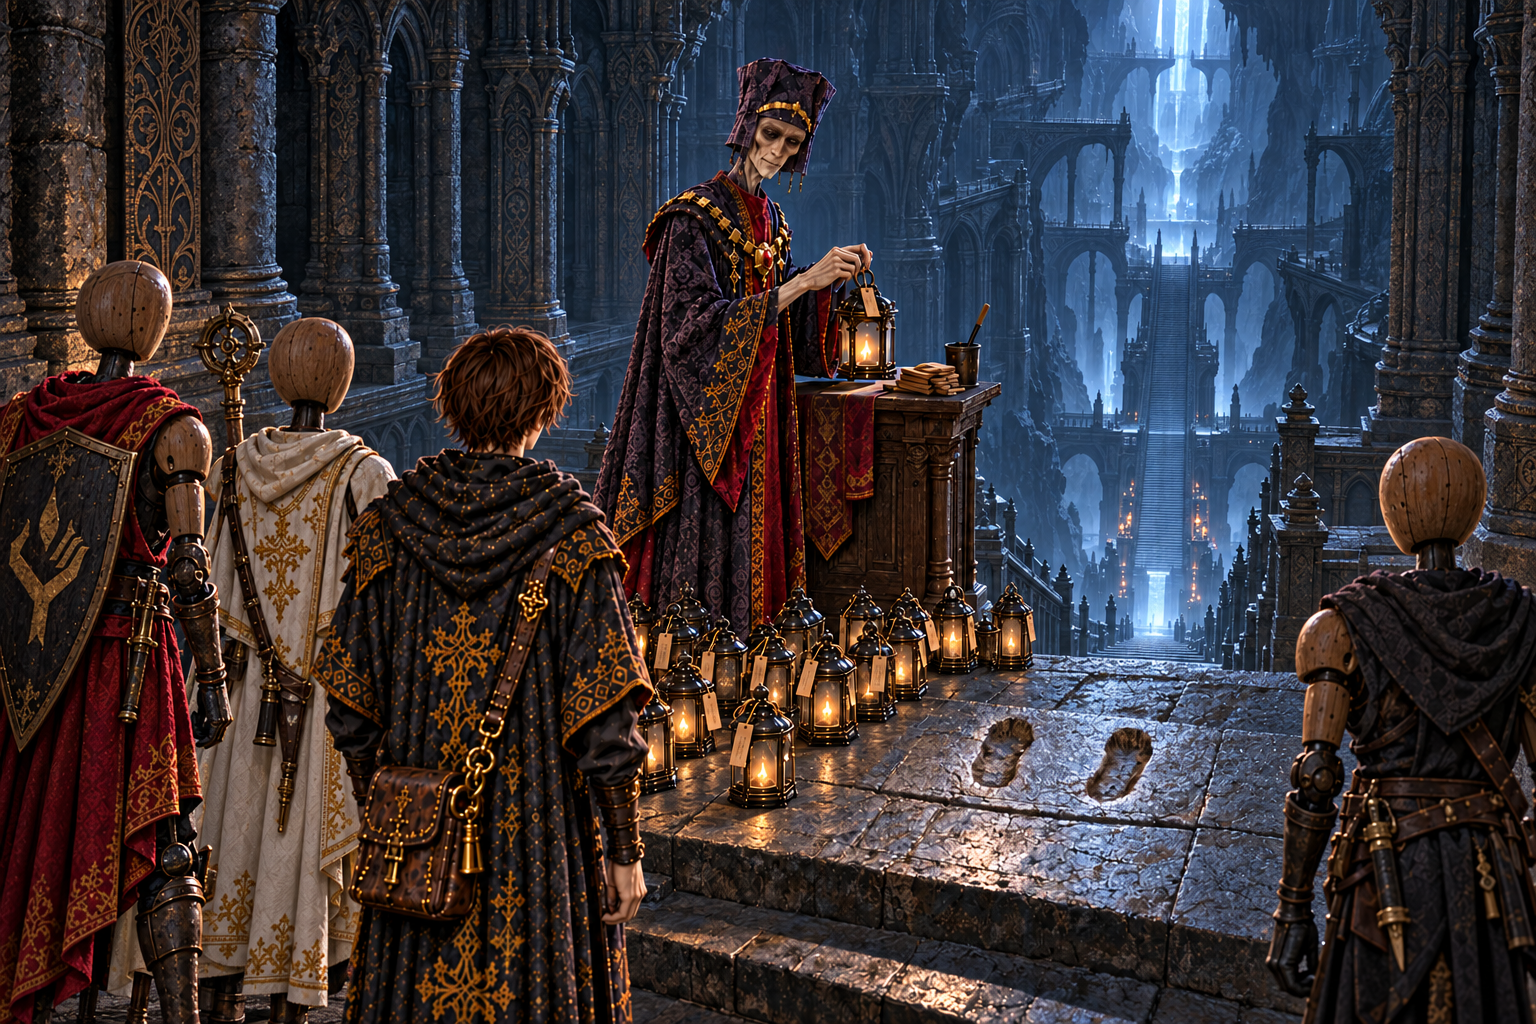
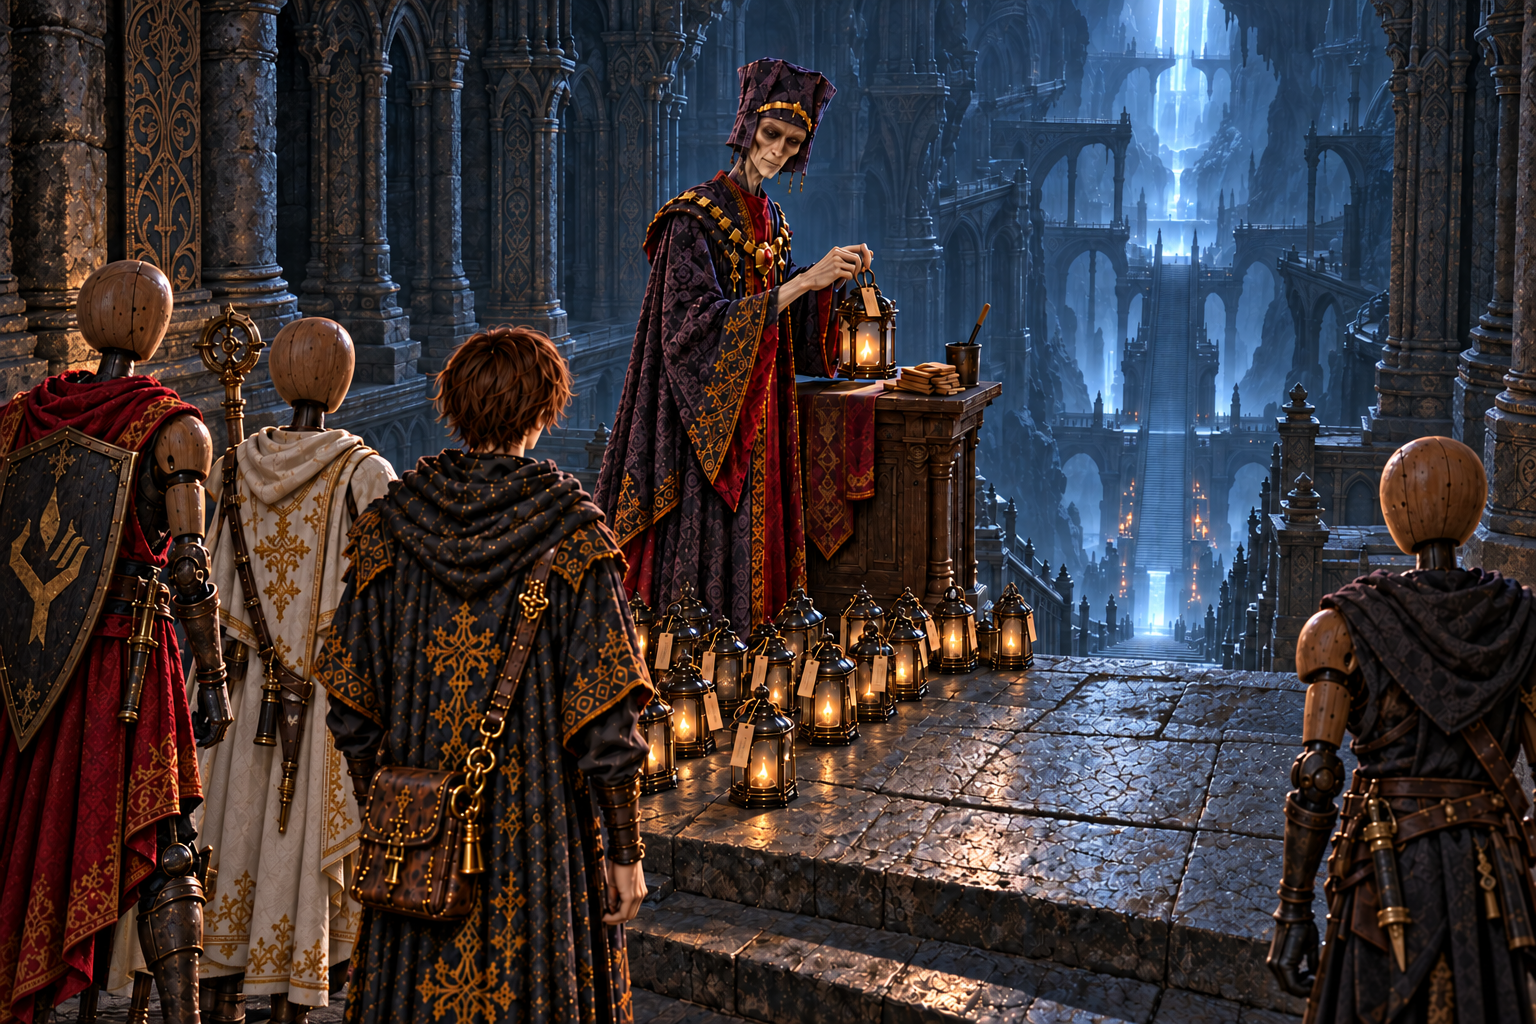
階段の前の宰相の石床から足跡を除去

diff --git a/docs/art/codex-story-art-brief.md b/docs/art/codex-story-art-brief.md
@@ -219,6 +219,13 @@ Character reference sheet on a plain dark slate-blue background with soft even l
 ### A. 必須 (物語の筋や正典と食い違う)
 
 
+**A-39. 第十章 pre_w41「階段の前の宰相」地面の足跡を除去** `art/story-review/chapter10/pre_w41.png` (済)
+- ユーザー指定 (2026-10-16): 画面下部中央やや右の石床にある、足裏の形をした二つの深い跡を消し、周囲と同じ石畳に戻す。本文は変えない。
+- 保つもの: 人物・手指・衣装・灯籠・札・書見台・石段・伽藍・構図・画風・光。床の修正範囲外は保つ。
+```text
+...remove ONLY the TWO conspicuous foot-shaped depressions in the stone floor in the lower center-right of the attached illustration (roughly x=950-1180, y=705-830 on the 1536x1024 image). Completely erase both dark sole silhouettes, their heel/toe indentations, rims and internal shadows. Reconstruct continuous ordinary worn gothic stone paving in those two small regions, matching the surrounding irregular slab texture, joints, cracks, perspective and warm amber/cool cyan lighting. Keep the horizontal step edge in front intact. The finished floor must have no recognizable footprints, shoe prints, sole shapes or paired foot-shaped hollows. Preserve every other part of the illustration exactly: all people, faces, hair, hands, costumes, lanterns, tags, lectern, stairs, architecture, composition, colors, crisp fine pixel texture and lighting. Do not move any object or change the camera. No new objects or readable text.
+```
+
 **A-38. 第二章 report_w09「先代という仮面」（ゲーム内「先代の王」）** `art/story-review/chapter2/report_w09.png` (済)
 - ユーザー指定 (2026-10-15): 弟子が持つ手紙を、`art/story-review/chapter2/mem_w09.png`「砦を捧げた書状」と同じ書状にする。赤い封蝋を横に二つ並べ、左を金の王冠の王家の紋、右を参照と同じ金の宰相府の紋にし、赤金の組紐も合わせる。手に持つ角度と縮尺に合わせる。
 - 保つもの: 王と弟子の顔・姿勢・手・衣装、空の宰相の席、玉座の間、構図、画風、光。本文は変えない。
@@ -1019,10 +1026,10 @@ Return to the same deep underground gothic cathedral stairway as the approved fi
 ```
 
 **pre_w41「階段の前の宰相」** (主との対面 / 宰相モルデン。戦いの前)
-- 要点: 大伽藍のいちばん奥、さらに下へ降りる石段の手前に小さな書見台。痩せた長身の宰相モルデンが細い筆で木札に名を書き終え、筆を置き、札を灯籠に結んで振り返る。足もとに名札つきの濁った灯籠が行儀よく並ぶ (湖の札・灯籠の山の足跡・壁龕の名と同じ手)。石段の前の石は、三百年立ち続けた足の形にすり減っている。「ここから先へは、行かせません」。敵意ではなく、静かな拒み。
+- 要点: 大伽藍のいちばん奥、さらに下へ降りる石段の手前に小さな書見台。痩せた長身の宰相モルデンが細い筆で木札に名を書き終え、筆を置き、札を灯籠に結んで振り返る。足もとに名札つきの濁った灯籠が行儀よく並ぶ (湖の札・灯籠の山の足跡・壁龕の名と同じ手)。ユーザー指定 (2026-10-16): 石床には足形の跡を描かず、周囲と続く自然な石畳にする (本文は維持)。「ここから先へは、行かせません」。敵意ではなく、静かな拒み。
 - 描くもの: 書見台・筆・木札 / 名札つきの灯籠の列 / 石段の前に立つモルデン (正典の顔、胸の扉は閉じている) / 手前に立つ弟子と隊の後ろ姿。描かないもの: 師。底のものの正体 (光だけ)。
 ```text
-The innermost depth of a gigantic cavern-cathedral, ceiling lost in darkness. Before a broad ancient stone stairway descending into an abyss (a faint unearthly light far below) stands a small wooden lectern with a fine brush and a stack of small wooden name tags. The chancellor Morden (exact canon face: gaunt, pale, ageless, thin sad smile, tall black-purple hat with gold band, red inner robe, gold chain with a red jewel) has just set down the brush and turns toward the viewer, one hand tying a tag onto a small clouded lantern. Rows of small clouded-black antique lanterns with wooden name tags stand neatly at his feet. The worn top step bears two foot-shaped hollows. In the foreground, the apprentice and the party of wooden dolls are seen from behind. Calm, sorrowful, a quiet refusal rather than menace.
+The innermost depth of a gigantic cavern-cathedral, ceiling lost in darkness. Before a broad ancient stone stairway descending into an abyss (a faint unearthly light far below) stands a small wooden lectern with a fine brush and a stack of small wooden name tags. The chancellor Morden (exact canon face: gaunt, pale, ageless, thin sad smile, tall black-purple hat with gold band, red inner robe, gold chain with a red jewel) has just set down the brush and turns toward the viewer, one hand tying a tag onto a small clouded lantern. Rows of small clouded-black antique lanterns with wooden name tags stand neatly at his feet. The worn stone floor has ordinary continuous paving, with no footprint-shaped hollows (user correction, 2026-10-16). In the foreground, the apprentice and the party of wooden dolls are seen from behind. Calm, sorrowful, a quiet refusal rather than menace.
 ```
 
 **mem_w41「階段の前のふたり」** (主の記憶 / 宰相モルデン)

diff --git a/art/story-review/review/chapter10.md b/art/story-review/review/chapter10.md
@@ -264,7 +264,7 @@
 
 **指示書 (4章)**
 
-- 要点: 大伽藍のいちばん奥、さらに下へ降りる石段の手前に小さな書見台。痩せた長身の宰相モルデンが細い筆で木札に名を書き終え、筆を置き、札を灯籠に結んで振り返る。足もとに名札つきの濁った灯籠が行儀よく並ぶ (湖の札・灯籠の山の足跡・壁龕の名と同じ手)。石段の前の石は、三百年立ち続けた足の形にすり減っている。「ここから先へは、行かせません」。敵意ではなく、静かな拒み。
+- 要点: 大伽藍のいちばん奥、さらに下へ降りる石段の手前に小さな書見台。痩せた長身の宰相モルデンが細い筆で木札に名を書き終え、筆を置き、札を灯籠に結んで振り返る。足もとに名札つきの濁った灯籠が行儀よく並ぶ (湖の札・灯籠の山の足跡・壁龕の名と同じ手)。ユーザー指定 (2026-10-16): 石床には足形の跡を描かず、周囲と続く自然な石畳にする (本文は維持)。「ここから先へは、行かせません」。敵意ではなく、静かな拒み。
 - 描くもの: 書見台・筆・木札 / 名札つきの灯籠の列 / 石段の前に立つモルデン (正典の顔、胸の扉は閉じている) / 手前に立つ弟子と隊の後ろ姿。描かないもの: 師。底のものの正体 (光だけ)。
 
 <a name="pre_w41_retry"></a>

diff --git a/docs/story-art-plan.md b/docs/story-art-plan.md
@@ -1,5 +1,9 @@
 # ストーリー専用イラストの制作台帳
 
+## 「階段の前の宰相」の石床の修正 (2026-10-16)
+
+ユーザー指定により `pre_w41` の地面にある二つの足形を消し、周囲に続く自然な石畳へ修正。人物・灯籠・書見台・背景・構図・光は維持し、本文は変更しない。修正前は `art/story-review/fixes/pre_w41-before.png` に保存。制作指示は A-39。
+
 ## 宰相への再挑戦「ふたたび階段の前で」 (2026-10-16)
 
 `pre_w41_retry` の原画と専用WebPを追加。初対面と同じ大伽藍で、置かれた細筆と少し厚くなった木札の束、戻ってきた弟子たちを迎えるモルデンを描く。初対面の `pre_w41` と画像・語りの既読記録を分け、再挑戦の語りを聞くとストーリー一覧からも読める。確認ページは `art/story-review/review/chapter10.md`。
